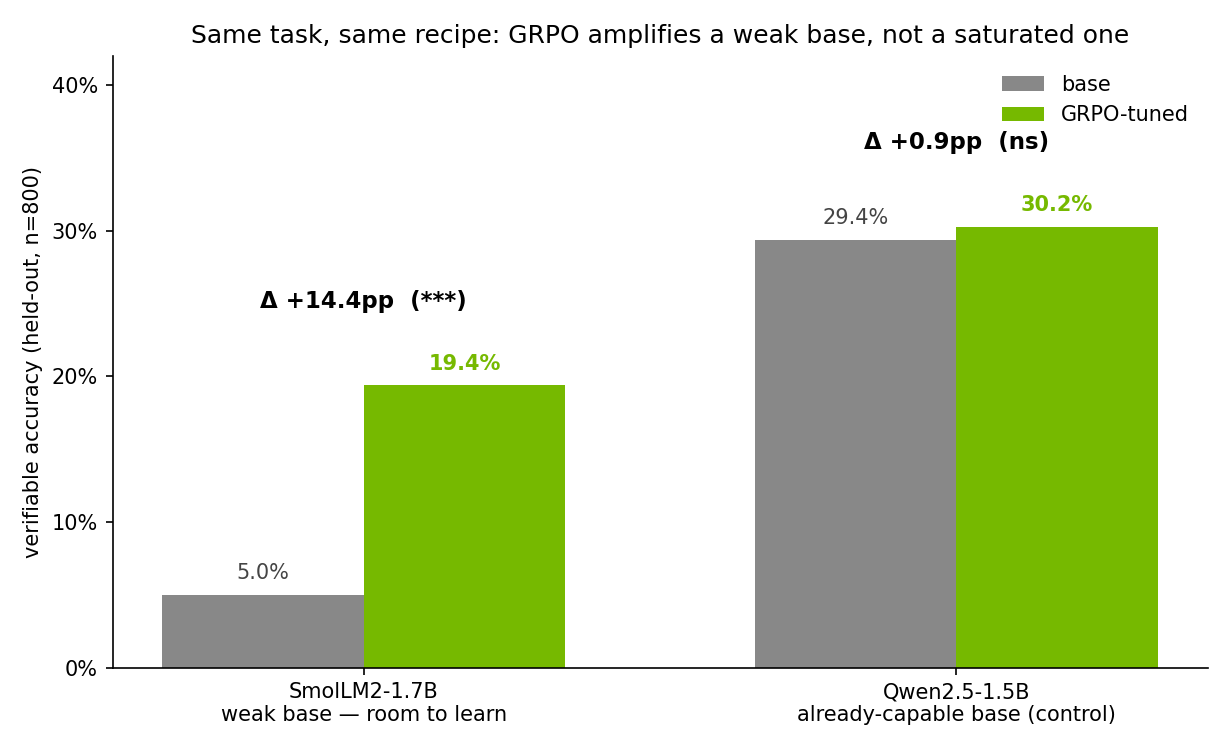
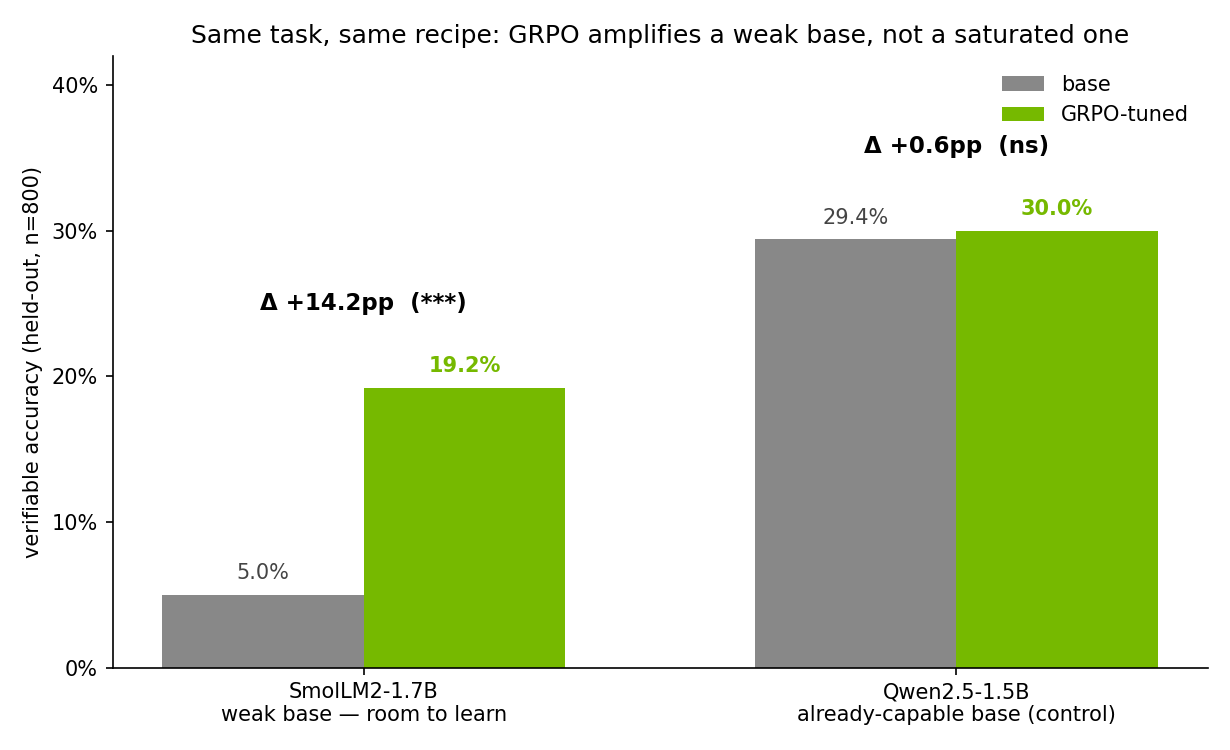
Seed-averaged headline (3 seeds): SmolLM2 +14.2±0.3pp synthetic, +21.5±0.1pp real
The multi-seed matrix landed (8 cells, seeds 7/13/21). Update the README hero +
FINDINGS from single-seed to seed-averaged:
- synthetic SmolLM2 R0 +14.2±0.3pp (5.0->19.2%), Qwen R0 +0.6±0.3pp (control);
  team_points wall holds at +0.0 across all 12 cells.
- real (nflverse 2023 wk1-4, n=509) SmolLM2 +21.5±0.1pp (8.2->29.8%), per-seed
  [29.7,29.9,29.9] — near-zero seed variance.
- regenerate assets/hero.png with the seed-averaged labels; per-task table +
  runs metadata (3 seeds) updated; new FINDINGS entry.

diff --git a/README.md b/README.md
@@ -16,29 +16,29 @@ The domain is football (box scores, late-game situations) because verifiable spo
 
 ![GRPO base vs. tuned — SmolLM2 leaps; the saturated Qwen barely moves](assets/hero.png)
 
-| Model | Base | GRPO-tuned | Δ | McNemar |
+| Model | Base | GRPO-tuned | Δ (3 seeds) | sig. |
 | --- | ---: | ---: | ---: | :--- |
-| **SmolLM2-1.7B** — weak base, room to learn | 5.0% | **19.4%** | **+14.4pp** | `***`, p<0.001 |
-| Qwen2.5-1.5B — already-capable base (control) | 29.4% | 30.2% | +0.9pp | ns, p=0.38 |
+| **SmolLM2-1.7B** — weak base, room to learn | 5.0% | **19.2%** | **+14.2 ± 0.3pp** | `***` |
+| Qwen2.5-1.5B — already-capable base (control) | 29.4% | 30.0% | +0.6 ± 0.3pp | ns |
 
-SmolLM2 nearly **quadruples** its verifiable accuracy — 119 answers flip from wrong to right, just 4 the other way — while Qwen, already ~29% off the shelf, has almost nothing left to reinforce. Same trainer, same data, same 1,200 steps. **The lesson: when a model is bad at a task, the better move is often the right _objective_ on a model with headroom, not a bigger model.**
+SmolLM2 nearly **quadruples** its verifiable accuracy — well over 100 answers flip from wrong to right each seed, only a handful the other way — while Qwen, already ~29% off the shelf, has almost nothing left to reinforce. Same trainer, same data, same 1,200 steps. **The lesson: when a model is bad at a task, the better move is often the right _objective_ on a model with headroom, not a bigger model.**
 
-**And it holds on _real_ NFL games.** Trained on synthetic, evaluated on real 2023 box scores (nflverse, n=509): SmolLM2 **+21.4pp** (8.2% → 29.7%, p<0.0001), Qwen flat (+0.0pp) — the same split, on a real distribution. (`src/data/build_real_eval.py`; single-seed preview, seed-averaged once the matrix lands.)
+**And it holds on _real_ NFL games.** Trained on synthetic, evaluated on real 2023 box scores (nflverse, n=509): SmolLM2 **+21.5 ± 0.1pp** (8.2% → 29.8%, 3 seeds, p<0.0001), Qwen flat (+0.0pp) — the same split, on a real distribution. (`src/data/build_real_eval.py`.)
 
 **Where the gain comes from** — and where it doesn't (per task, base → GRPO):
 
 | Task | What it tests | Base | GRPO | Δ (pp) |
 | --- | --- | ---: | ---: | ---: |
 | `td_or_fg` | rule-based decision | 0.0% | 47.0% | **+47.0** |
-| `hundred_yd_rec` | set membership (≥100 rec yds) | 0.0% | 20.3% | +20.3 |
-| `total_tds` | sum touchdowns across players | 0.0% | 10.0% | +10.0 |
-| `most_scrimmage` | argmax over the table | 24.4% | 29.0% | +4.6 |
-| `scrimmage_total` | single-player rush + rec sum | 7.5% | 10.3% | +2.8 |
+| `hundred_yd_rec` | set membership (≥100 rec yds) | 0.0% | 19.8% | +19.8 |
+| `total_tds` | sum touchdowns across players | 0.0% | 8.9% | +8.9 |
+| `most_scrimmage` | argmax over the table | 24.4% | 29.5% | +5.1 |
+| `scrimmage_total` | single-player rush + rec sum | 7.5% | 10.6% | +3.1 |
 | `team_points` | players' TDs (×6) + the FG/XP/2pt line | 0.0% | 0.0% | +0.0 |
 
 The flat `team_points` row is the honest other half of the story: composite arithmetic the base _never_ samples, so GRPO has nothing to reinforce. Gains track base pass@k headroom — full CIs, the paired McNemar test, and the multi-seed × multi-recipe matrix are in [`FINDINGS.md`](FINDINGS.md).
 
-**Runs:** GRPO + LoRA (r=16) · group size 8 · 1,200 steps · seed 7 · naive-GRPO recipe (TRL defaults) · SmolLM2-1.7B on 1× L40S, Qwen2.5-1.5B on 1× A100 80GB · **~$5–15 each** on [HF Jobs](https://huggingface.co/docs/hub/jobs). Regenerate any run's table with `python src/eval/results_to_md.py <baseline>.json <grpo>.json`, and this figure with `python src/eval/make_hero.py`.
+**Runs:** GRPO + LoRA (r=16) · group size 8 · 1,200 steps · **3 seeds (7/13/21)** · naive-GRPO recipe (TRL defaults) · SmolLM2-1.7B on 1× L40S, Qwen2.5-1.5B on 1× A100 80GB · **~$5–15 each** on [HF Jobs](https://huggingface.co/docs/hub/jobs). Regenerate any run's table with `python src/eval/results_to_md.py <baseline>.json <grpo>.json`, and this figure with `python src/eval/make_hero.py`.
 
 ## What you'll learn
 
@@ -69,7 +69,7 @@ pip install -r requirements.txt
 python src/data/build_dataset.py --n_train 8000 --n_eval 800 --seed 7 --out data_out
 
 # 2. Train — runs a 20-step smoke test first, then the real run.
-#    (Swap in HuggingFaceTB/SmolLM2-1.7B-Instruct to reproduce the +14.4pp headline.)
+#    (Swap in HuggingFaceTB/SmolLM2-1.7B-Instruct to reproduce the +14.2pp headline.)
 bash scripts/run_train.sh Qwen/Qwen2.5-1.5B-Instruct
 
 # 3. Evaluate base vs. tuned, and chart it